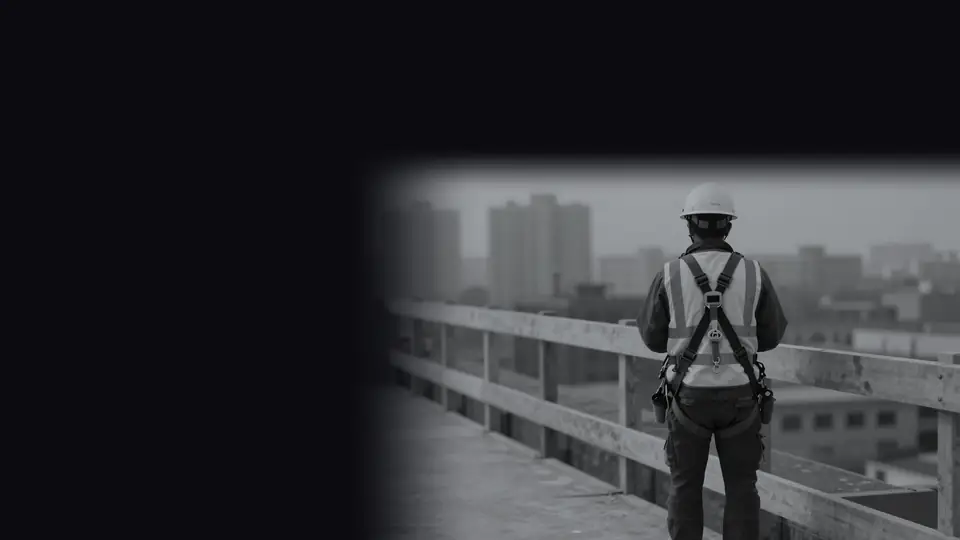
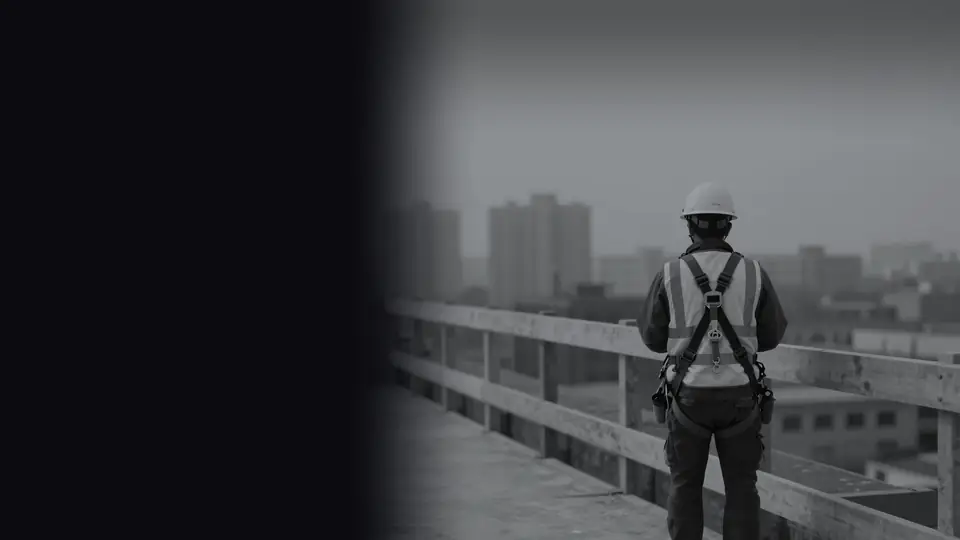
Lighten the hero filter and soften its edge on the inner pages

Changed region(s): [[0.375, 0.0, 1.0, 0.3556]]

diff --git a/safety.html b/safety.html
@@ -57,7 +57,7 @@ main h3{text-wrap:balance}
 .hero-photo{position:relative;overflow:hidden;--hx:calc(max(24px, 50vw - 536px) + 26 * clamp(17px, 1.9vw, 20px) + 24px)}
 .hero-photo picture{display:contents}
 .hero-img{position:absolute;top:0;left:0;width:100%;height:100%;object-fit:cover;object-position:right center}
-.hero-fade{position:absolute;top:0;left:0;width:100%;height:100%;background:linear-gradient(90deg,#0B0B10 0,#0B0B10 var(--hx),rgba(11,11,16,.88) calc(var(--hx) + 120px),rgba(11,11,16,.7) 100%)}
+.hero-fade{position:absolute;top:0;left:0;width:100%;height:100%;--hw:clamp(160px, 20vw, 320px);background:linear-gradient(90deg,#0B0B10 0,#0B0B10 var(--hx),rgba(11,11,16,.99) calc(var(--hx) + var(--hw) * .1),rgba(11,11,16,.97) calc(var(--hx) + var(--hw) * .2),rgba(11,11,16,.93) calc(var(--hx) + var(--hw) * .3),rgba(11,11,16,.89) calc(var(--hx) + var(--hw) * .4),rgba(11,11,16,.84) calc(var(--hx) + var(--hw) * .5),rgba(11,11,16,.79) calc(var(--hx) + var(--hw) * .6),rgba(11,11,16,.75) calc(var(--hx) + var(--hw) * .7),rgba(11,11,16,.71) calc(var(--hx) + var(--hw) * .8),rgba(11,11,16,.69) calc(var(--hx) + var(--hw) * .9),rgba(11,11,16,.68) calc(var(--hx) + var(--hw)),rgba(11,11,16,.5) 100%)}
 .hero-in{position:relative;max-width:1120px;margin:0 auto;padding:88px 24px 96px;box-sizing:border-box}
 .hero-photo h1{max-width:9em}
 .hero-photo h1 > span{white-space:nowrap}

diff --git a/what-we-do.html b/what-we-do.html
@@ -60,7 +60,7 @@ main h3{text-wrap:balance}
 .hero-photo{position:relative;overflow:hidden;--hx:calc(max(24px, 50vw - 536px) + 26 * clamp(17px, 1.9vw, 20px) + 24px)}
 .hero-photo picture{display:contents}
 .hero-img{position:absolute;top:0;left:0;width:100%;height:100%;object-fit:cover;object-position:right center}
-.hero-fade{position:absolute;top:0;left:0;width:100%;height:100%;background:linear-gradient(90deg,#0B0B10 0,#0B0B10 var(--hx),rgba(11,11,16,.88) calc(var(--hx) + 120px),rgba(11,11,16,.7) 100%)}
+.hero-fade{position:absolute;top:0;left:0;width:100%;height:100%;--hw:clamp(160px, 20vw, 320px);background:linear-gradient(90deg,#0B0B10 0,#0B0B10 var(--hx),rgba(11,11,16,.99) calc(var(--hx) + var(--hw) * .1),rgba(11,11,16,.97) calc(var(--hx) + var(--hw) * .2),rgba(11,11,16,.93) calc(var(--hx) + var(--hw) * .3),rgba(11,11,16,.89) calc(var(--hx) + var(--hw) * .4),rgba(11,11,16,.84) calc(var(--hx) + var(--hw) * .5),rgba(11,11,16,.79) calc(var(--hx) + var(--hw) * .6),rgba(11,11,16,.75) calc(var(--hx) + var(--hw) * .7),rgba(11,11,16,.71) calc(var(--hx) + var(--hw) * .8),rgba(11,11,16,.69) calc(var(--hx) + var(--hw) * .9),rgba(11,11,16,.68) calc(var(--hx) + var(--hw)),rgba(11,11,16,.5) 100%)}
 .hero-in{position:relative;max-width:1120px;margin:0 auto;padding:88px 24px 96px;box-sizing:border-box}
 .hero-photo h1{max-width:9em}
 .hero-photo h1 > span{white-space:nowrap}

diff --git a/careers.html b/careers.html
@@ -52,7 +52,7 @@ header{position:relative}
 .hero-photo{position:relative;overflow:hidden;--hx:calc(max(24px, 50vw - 536px) + 26 * clamp(17px, 1.9vw, 20px) + 24px)}
 .hero-photo picture{display:contents}
 .hero-img{position:absolute;top:0;left:0;width:100%;height:100%;object-fit:cover;object-position:right center}
-.hero-fade{position:absolute;top:0;left:0;width:100%;height:100%;background:linear-gradient(90deg,#0B0B10 0,#0B0B10 var(--hx),rgba(11,11,16,.88) calc(var(--hx) + 120px),rgba(11,11,16,.7) 100%)}
+.hero-fade{position:absolute;top:0;left:0;width:100%;height:100%;--hw:clamp(160px, 20vw, 320px);background:linear-gradient(90deg,#0B0B10 0,#0B0B10 var(--hx),rgba(11,11,16,.99) calc(var(--hx) + var(--hw) * .1),rgba(11,11,16,.97) calc(var(--hx) + var(--hw) * .2),rgba(11,11,16,.93) calc(var(--hx) + var(--hw) * .3),rgba(11,11,16,.89) calc(var(--hx) + var(--hw) * .4),rgba(11,11,16,.84) calc(var(--hx) + var(--hw) * .5),rgba(11,11,16,.79) calc(var(--hx) + var(--hw) * .6),rgba(11,11,16,.75) calc(var(--hx) + var(--hw) * .7),rgba(11,11,16,.71) calc(var(--hx) + var(--hw) * .8),rgba(11,11,16,.69) calc(var(--hx) + var(--hw) * .9),rgba(11,11,16,.68) calc(var(--hx) + var(--hw)),rgba(11,11,16,.5) 100%)}
 .hero-in{position:relative;max-width:1120px;margin:0 auto;padding:88px 24px 96px;box-sizing:border-box}
 .hero-photo h1{max-width:9em}
 .hero-photo h1 > span{white-space:nowrap}

diff --git a/contact.html b/contact.html
@@ -52,7 +52,7 @@ header{position:relative}
 .hero-photo{position:relative;overflow:hidden;--hx:calc(max(24px, 50vw - 536px) + 26 * clamp(17px, 1.9vw, 20px) + 24px)}
 .hero-photo picture{display:contents}
 .hero-img{position:absolute;top:0;left:0;width:100%;height:100%;object-fit:cover;object-position:right center}
-.hero-fade{position:absolute;top:0;left:0;width:100%;height:100%;background:linear-gradient(90deg,#0B0B10 0,#0B0B10 var(--hx),rgba(11,11,16,.88) calc(var(--hx) + 120px),rgba(11,11,16,.7) 100%)}
+.hero-fade{position:absolute;top:0;left:0;width:100%;height:100%;--hw:clamp(160px, 20vw, 320px);background:linear-gradient(90deg,#0B0B10 0,#0B0B10 var(--hx),rgba(11,11,16,.99) calc(var(--hx) + var(--hw) * .1),rgba(11,11,16,.97) calc(var(--hx) + var(--hw) * .2),rgba(11,11,16,.93) calc(var(--hx) + var(--hw) * .3),rgba(11,11,16,.89) calc(var(--hx) + var(--hw) * .4),rgba(11,11,16,.84) calc(var(--hx) + var(--hw) * .5),rgba(11,11,16,.79) calc(var(--hx) + var(--hw) * .6),rgba(11,11,16,.75) calc(var(--hx) + var(--hw) * .7),rgba(11,11,16,.71) calc(var(--hx) + var(--hw) * .8),rgba(11,11,16,.69) calc(var(--hx) + var(--hw) * .9),rgba(11,11,16,.68) calc(var(--hx) + var(--hw)),rgba(11,11,16,.5) 100%)}
 .hero-in{position:relative;max-width:1120px;margin:0 auto;padding:88px 24px 96px;box-sizing:border-box}
 .hero-photo h1{max-width:9em}
 .hero-photo h1 > span{white-space:nowrap}

diff --git a/who-we-are.html b/who-we-are.html
@@ -63,7 +63,7 @@ main p{text-wrap:pretty}
 .hero-photo{position:relative;overflow:hidden;--hx:calc(max(24px, 50vw - 536px) + 26 * clamp(17px, 1.9vw, 20px) + 24px)}
 .hero-photo picture{display:contents}
 .hero-img{position:absolute;top:0;left:0;width:100%;height:100%;object-fit:cover;object-position:right center}
-.hero-fade{position:absolute;top:0;left:0;width:100%;height:100%;background:linear-gradient(90deg,#0B0B10 0,#0B0B10 var(--hx),rgba(11,11,16,.88) calc(var(--hx) + 120px),rgba(11,11,16,.7) 100%)}
+.hero-fade{position:absolute;top:0;left:0;width:100%;height:100%;--hw:clamp(160px, 20vw, 320px);background:linear-gradient(90deg,#0B0B10 0,#0B0B10 var(--hx),rgba(11,11,16,.99) calc(var(--hx) + var(--hw) * .1),rgba(11,11,16,.97) calc(var(--hx) + var(--hw) * .2),rgba(11,11,16,.93) calc(var(--hx) + var(--hw) * .3),rgba(11,11,16,.89) calc(var(--hx) + var(--hw) * .4),rgba(11,11,16,.84) calc(var(--hx) + var(--hw) * .5),rgba(11,11,16,.79) calc(var(--hx) + var(--hw) * .6),rgba(11,11,16,.75) calc(var(--hx) + var(--hw) * .7),rgba(11,11,16,.71) calc(var(--hx) + var(--hw) * .8),rgba(11,11,16,.69) calc(var(--hx) + var(--hw) * .9),rgba(11,11,16,.68) calc(var(--hx) + var(--hw)),rgba(11,11,16,.5) 100%)}
 .hero-in{position:relative;max-width:1120px;margin:0 auto;padding:88px 24px 96px;box-sizing:border-box}
 .hero-photo h1{max-width:9em}
 .hero-photo h1 > span{white-space:nowrap}
